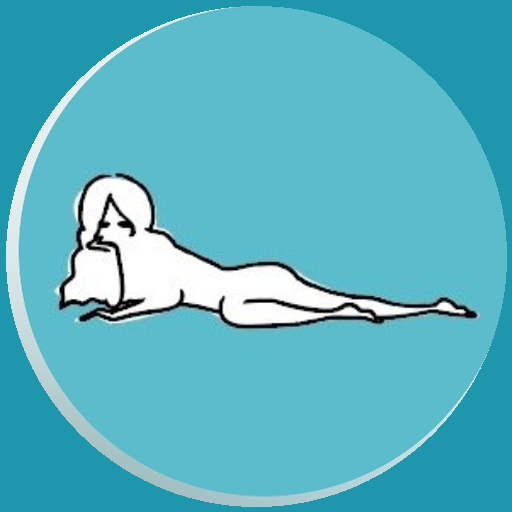
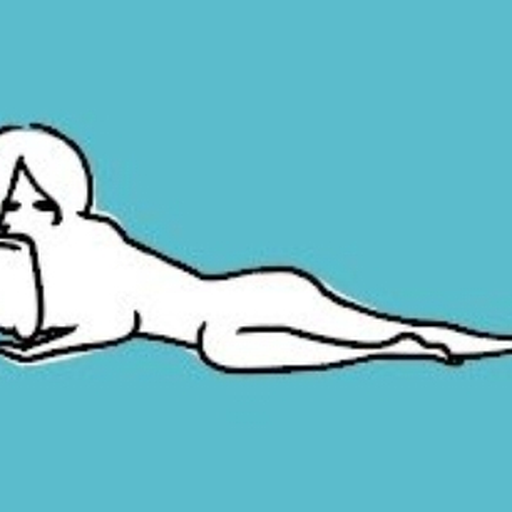
Add files via upload

diff --git a/app.js b/app.js
@@ -146,14 +146,6 @@ function scheduleAutoSync() {
 
 // 来店登録・統合など、ここで確実に送信しておきたい操作の直後に使う。
 // 保留中のデバウンス送信をキャンセルしてから即座に送信する（確認や通知は行わない、静かな送信）。
-async function forceSyncNow() {
-  if (autoSyncTimer) {
-    clearTimeout(autoSyncTimer);
-    autoSyncTimer = null;
-  }
-  return syncToSpreadsheet(true);
-}
-
 function setupNav() {
   document.getElementById('sidenav').addEventListener('click', (e) => {
     const btn = e.target.closest('[data-screen]');
@@ -749,7 +741,6 @@ async function handleAddSubmit(root) {
   }
 
   await refreshCache();
-  await forceSyncNow();
   showToast(`${rows.length}本登録しました（${createdLabels.join('、')}）`);
   renderScreen('add');
 }
@@ -836,7 +827,6 @@ async function applyVisitDateToBottles(customerId, visitDate) {
 async function registerVisit(customerId, visitDate) {
   const count = await applyVisitDateToBottles(customerId, visitDate);
   await refreshCache();
-  await forceSyncNow();
   showToast(`${count}本のボトルの最終来店日を更新しました`);
   renderScreen(APP.currentScreen);
 }
@@ -1374,7 +1364,6 @@ async function mergeCustomerGroup(memberIds, newName, newKana) {
   await refreshCache();
   await syncCustomerLastVisitToLatest(anchor.id);
   await refreshCache();
-  await forceSyncNow();
   showToast(`${members.length}人を「${newName}」様に統合しました`);
   renderScreen('merge');
 }
@@ -1625,7 +1614,6 @@ function renderMergeScreen(root) {
     await refreshCache();
     await syncCustomerLastVisitToLatest(targetCustomer.id);
     await refreshCache();
-    await forceSyncNow();
     showToast(`${sourceBottles.length}本を ${finalName} 様に統合しました`);
     renderScreen('merge');
   });
@@ -1808,7 +1796,6 @@ async function discardBottle(bottleId, remainingAmount, afterScreen = 'disposal-
 
   delete APP.remainingDraft[bottleId];
   await refreshCache();
-  await forceSyncNow();
   showToast(`${bottle.bottleType} No.${before.bottleNo} を破棄しました`);
   renderScreen(afterScreen);
 }
@@ -2345,7 +2332,6 @@ async function saveDetailScreenChanges(root, bottle, customer) {
   }
 
   await refreshCache();
-  await forceSyncNow();
   showToast(visitCount > 0 ? `保存しました（${visitCount}本の最終来店日を更新）` : '保存しました');
   return true;
 }
@@ -2828,13 +2814,6 @@ async function pullFromSpreadsheet(silent = false) {
   let cellValue;
   try {
     cellValue = await fetchSheetColumnViaGviz(BUILT_IN_SPREADSHEET_ID, '_共有データ');
-    // 手動での取得は、他の端末が送信した直後だとGoogle側の反映が遅れていることがあるため、
-    // 少し待ってもう一度だけ読み直す（起動時の自動取得は速度優先で1回のみ）。
-    if (!silent) {
-      await new Promise((r) => setTimeout(r, 3000));
-      const retryValue = await fetchSheetColumnViaGviz(BUILT_IN_SPREADSHEET_ID, '_共有データ');
-      if (retryValue) cellValue = retryValue;
-    }
   } catch (err) {
     if (!silent) showToast(`取得に失敗しました（${err && err.message ? err.message : err}）`, 'error');
     return false;
@@ -2923,7 +2902,6 @@ function confirmOverwriteImport(data) {
     box2.querySelector('#m-confirm2').addEventListener('click', async () => {
       await importAllPreservingSyncSettings(data);
       closeModal();
-      await forceSyncNow();
       showToast('データを復元しました');
       renderScreen('backup');
     });

diff --git a/index.html b/index.html
@@ -6,7 +6,7 @@
 <title>Bottle Keeper</title>
 <link rel="icon" href="icon.png">
 <link rel="apple-touch-icon" href="icon.png">
-<link rel="stylesheet" href="styles.css?v=48">
+<link rel="stylesheet" href="styles.css?v=50">
 </head>
 <body>
 
@@ -60,8 +60,8 @@
   <div id="modal-box" class="modal-box"></div>
 </div>
 
-<script src="utils.js?v=48"></script>
-<script src="storage.js?v=48"></script>
-<script src="app.js?v=48"></script>
+<script src="utils.js?v=50"></script>
+<script src="storage.js?v=50"></script>
+<script src="app.js?v=50"></script>
 </body>
 </html>
